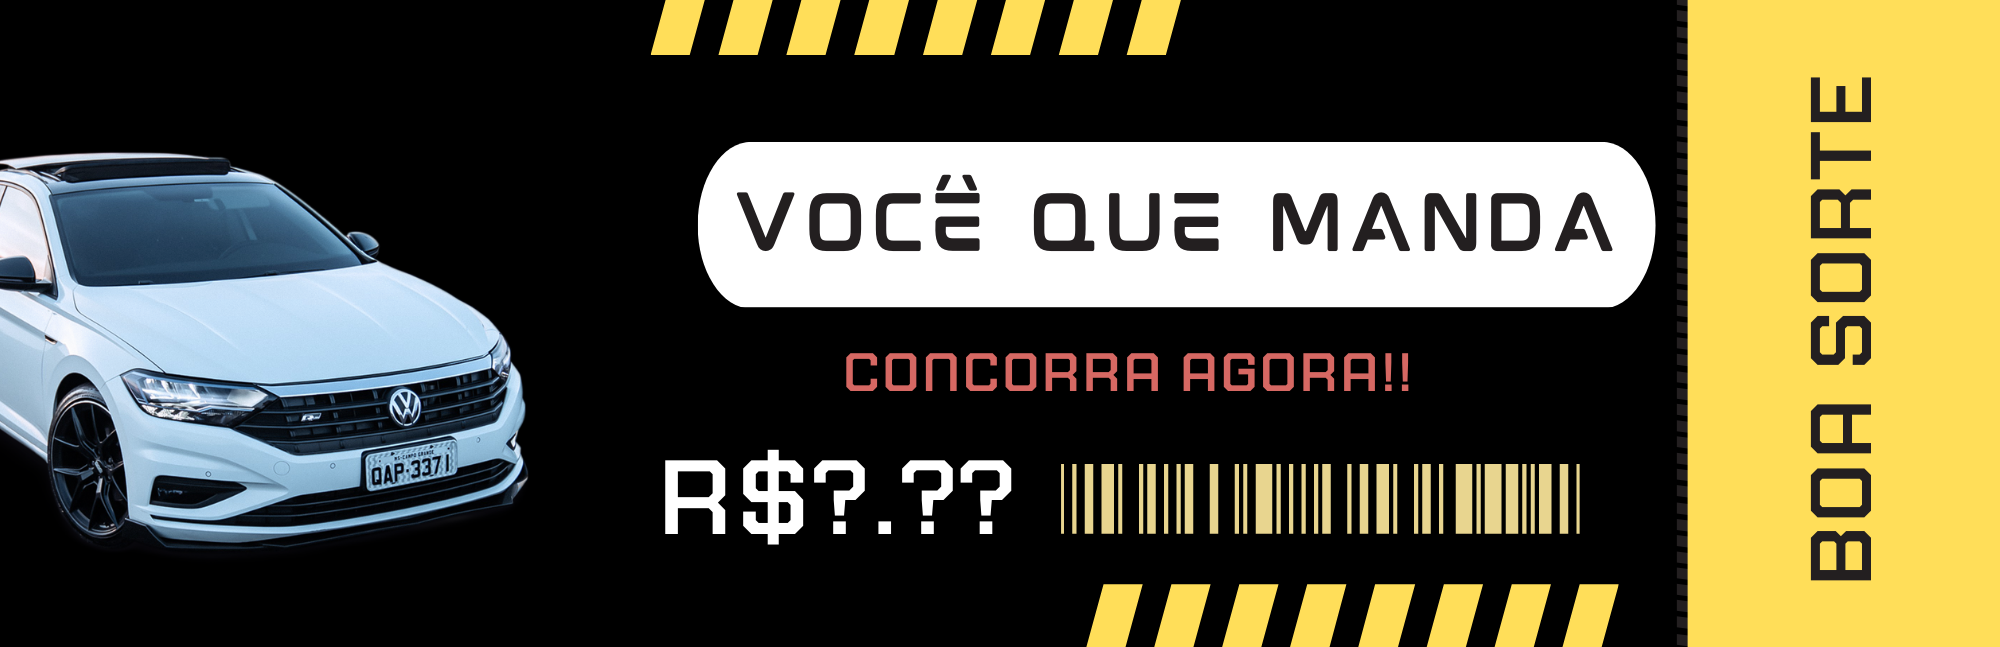
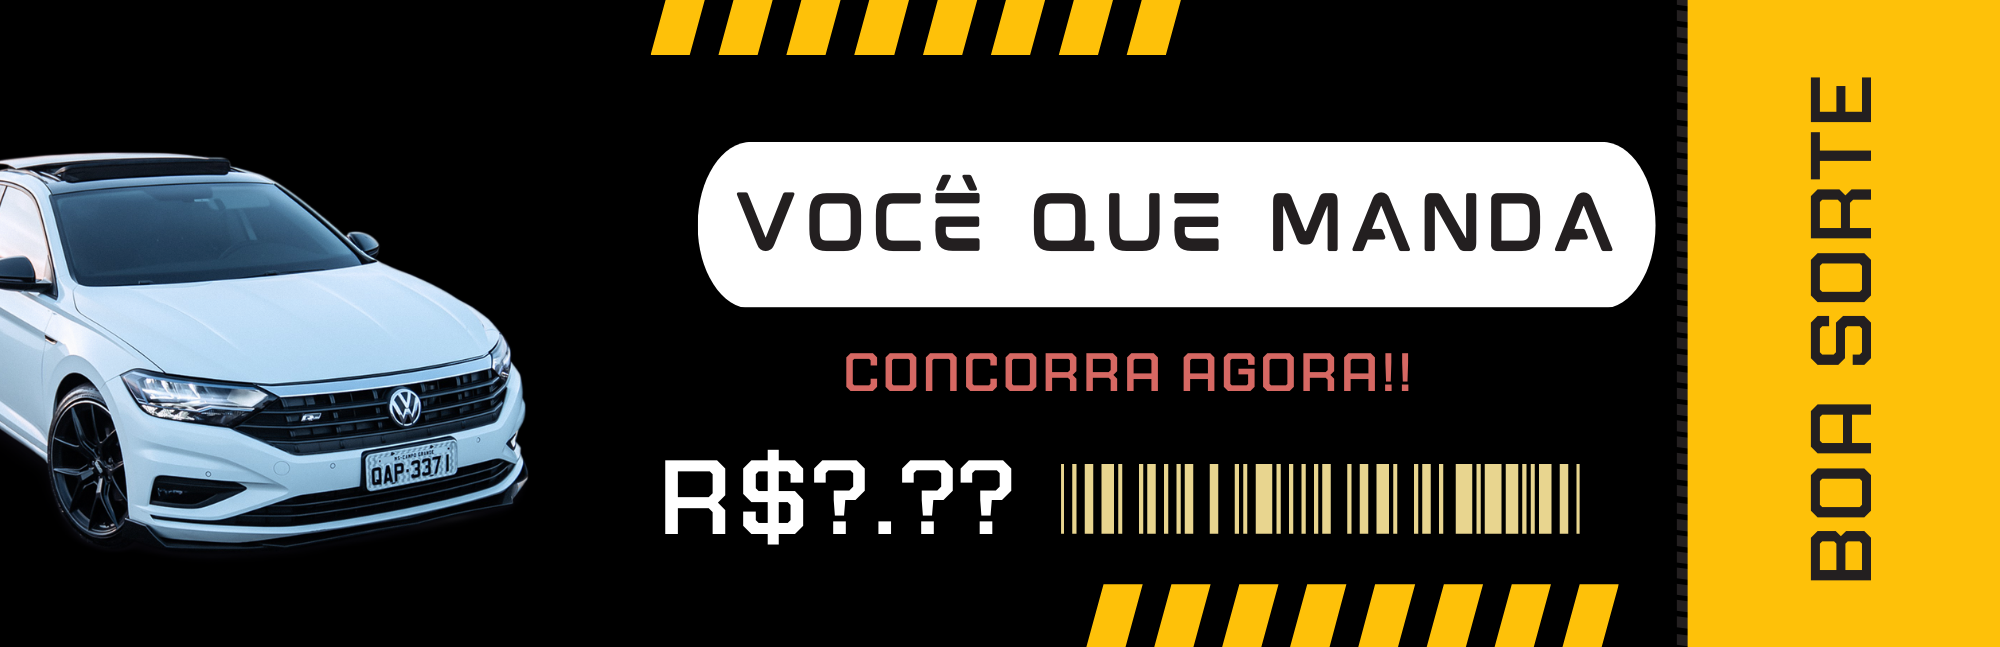
FEITO MANO 2

Changed region(s): [[0.837, 0.0, 1.0, 1.0], [0.527, 0.8964, 0.806, 1.0], [0.31, 0.0, 0.589, 0.0927]]

diff --git a/index.html b/index.html
@@ -109,7 +109,7 @@
         <img src="assets/images/logos/v6.png" style="max-height: 500px; object-fit: contain"  class="m-auto w-100">
     </div>
     <!-- Video Player END-->
-    <div class="show-on-call-action" style="display: none; position: relative;">
+    <div id="goto" class="show-on-call-action" style="display: none; position: relative;">
 
         <div  style="border-top: 3px solid black; padding-top: 21px; background-color: #fafafa; padding-bottom: 50px; " >
             <div class="container">
@@ -457,7 +457,7 @@
                                     </div>
                             </div>
                             <div class="button-wrap pb-8 pb-md-0">
-                                <a class="btn btn-custom-size h5 lg-size btn-primary p-4 shadow">COMPRAR NÚMERO AGORA</a>
+                                <a href="#goto" class="btn btn-custom-size h5 lg-size btn-primary p-4 shadow">COMPRAR NÚMERO AGORA</a>
                             </div>
                         </div>
                     </div>

diff --git a/assets/css/style.css b/assets/css/style.css
@@ -5189,7 +5189,7 @@ section, footer {
 .pricingTable10 .pricing-content ul li:last-child{border-bottom:none}
 .pricingTable10 .read{display:inline-block;border-radius: 2px; font-weight: bold; font-size:16px;color:#fff;text-transform:uppercase;background:black;padding:8px 25px;margin:30px 0;transition:all .3s ease 0s}
 .pricingTable10 .read:hover{text-decoration:none}
-.pricingTable10:hover .read{background:#f4df2d; color: black}
+.pricingTable10:hover .read{background:#fec109; color: black}
 @media screen and (max-width:990px){.pricingTable10{margin-bottom:25px}
 }
 .pricingTable10 .active{  transform: scale(1.1)}

diff --git a/assets/css/bootstrap.css b/assets/css/bootstrap.css
@@ -2785,8 +2785,8 @@ fieldset:disabled a.btn {
 
 .btn-primary:hover {
   color: #fff;
-  background-color: #fb2824;
-  border-color: #fb1c18;
+  background-color: #fec109;
+  border-color: #fec109;
 }
 
 .btn-primary:focus, .btn-primary.focus {
